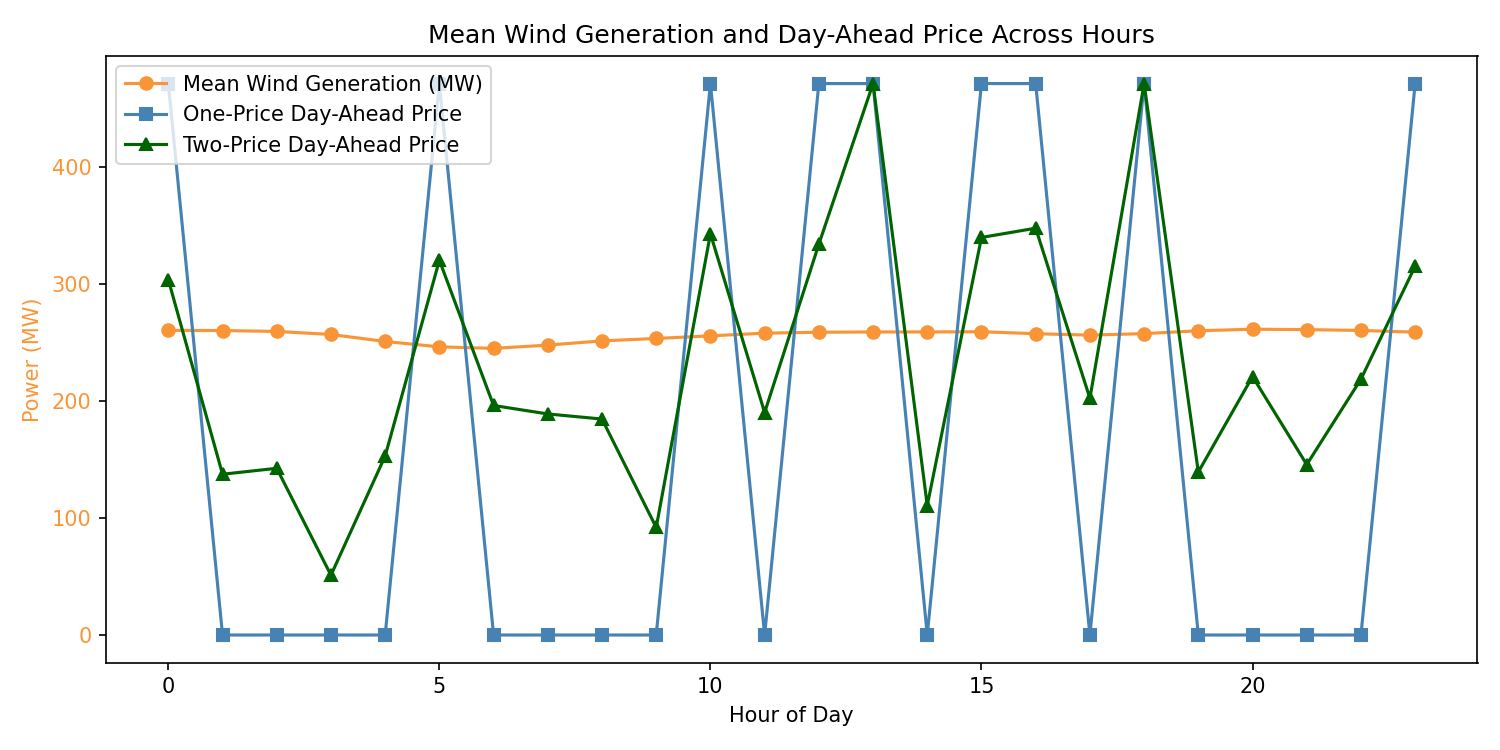
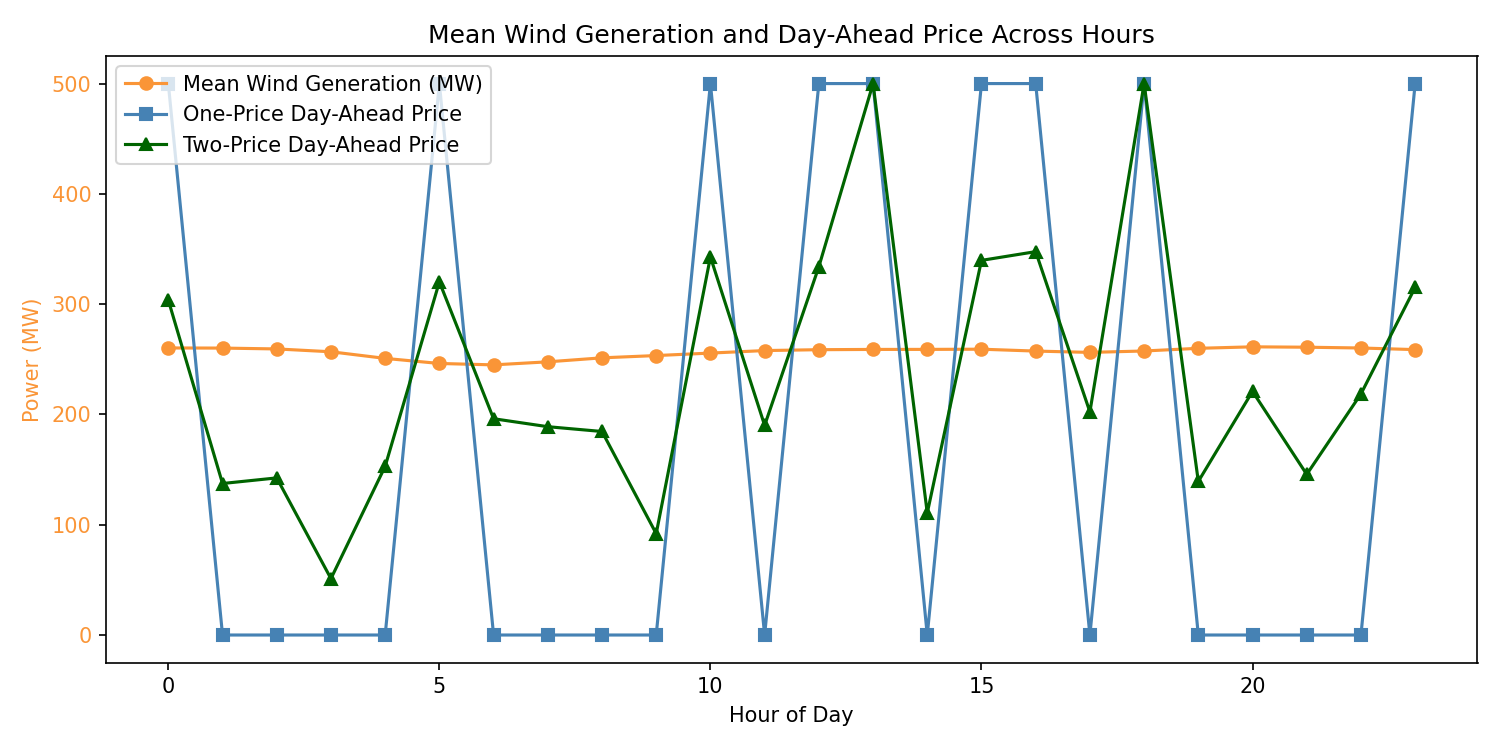
P NOM=500 set as the max for quantity da in task 1 and 2 instead of the max of the wind scenarios. Set verbose=false in the main task 1 and 2 file to have a clearer print.

diff --git a/Step1_Task1AndTask2.py b/Step1_Task1AndTask2.py
@@ -13,13 +13,13 @@ from step1.models import compute_balancing_prices_one, solve_one_price, compute_
 from step1.plots import plot_Expected_DA_And_Balancing_Values, plot_Mean_Wind_Generation_And_DA_Price, plot_profit_histogram
 
 # -------- Task 1 --------
-print("------ Task 1: One-price scheme ------")
+print("\n------ Task 1: One-price scheme ------")
 # compute balancing prices
 lambda_B = compute_balancing_prices_one(lambda_DA, si)
 
 # solve one-price model (beta=0: pure expected-profit maximisation)
 p_DA_One_Price_values, scenario_profit, _, Day_Ahead_Revenue_One_Price, Balancing_Revenue_One_Price = solve_one_price(
-    SCENARIOS, prob, wind_mw, lambda_DA, lambda_B, verbose=True
+    SCENARIOS, prob, wind_mw, lambda_DA, lambda_B, verbose=False
 )
 
 # hourly expected profit
@@ -93,7 +93,7 @@ lambda_B_up, lambda_B_down = compute_balancing_prices_two(lambda_DA, si)
 
 # solve two-price model (beta=0: pure expected-profit maximisation)
 p_DA_Two_Price_values, scenario_profit, _, Day_Ahead_Revenue_Two_Price, Balancing_Revenue_Two_Price = solve_two_price(
-    SCENARIOS, prob, wind_mw, lambda_DA, lambda_B_up, lambda_B_down, verbose=True
+    SCENARIOS, prob, wind_mw, lambda_DA, lambda_B_up, lambda_B_down, verbose=False
 )
 
 # hourly expected profit

diff --git a/step1/models.py b/step1/models.py
@@ -13,6 +13,7 @@ Return value for both solvers:
 """
 import gurobipy as gp
 from gurobipy import GRB
+from step1.data import P_NOM
 
 DEFICIT_MULTIPLIER = 1.25
 SURPLUS_MULTIPLIER = 0.85
@@ -86,7 +87,7 @@ def solve_one_price(
     Balancing_Revenue : float
     """
     hours   = list(lambda_DA.columns)
-    p_nom   = wind_mw.max().max()   # upper bound – use actual P_NOM if preferred
+    p_nom   = P_NOM   # upper bound – use actual P_NOM if preferred
 
     model = gp.Model("one_price")
     if not verbose:
@@ -189,7 +190,7 @@ def solve_two_price(
     Balancing_Revenue : float
     """
     hours = list(lambda_DA.columns)
-    p_nom = wind_mw.max().max()
+    p_nom = P_NOM
 
     model = gp.Model("two_price")
     if not verbose:
